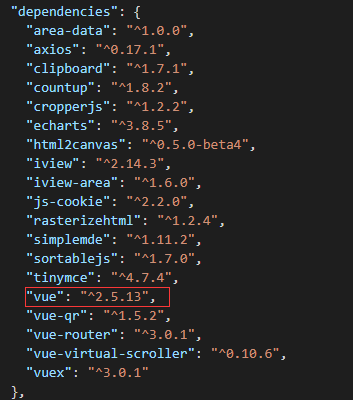
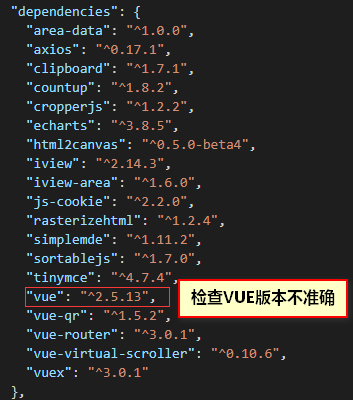
更正自己文章中出现的错误

Changed region(s): [[0.4986, 0.69, 0.9972, 0.81]]

diff --git a/source/_posts/你真的会检查自己系统安装的VUE版本吗？.md b/source/_posts/你真的会检查自己系统安装的VUE版本吗？.md
@@ -32,10 +32,12 @@ vue --version
 {% asset_img VUE-Ecosystem.png %}
 {% endblockquote %}
 
-## 检查自己项目的VUE版本
+## 检查自己项目的VUE版本()
 {% blockquote %}
-请看package.json
-{% asset_img package.json.png %}
+~~请看自己项目根目录中package.json~~
+~~{% asset_img package.json.png %}~~
+感谢大神对我错误的指点，对此问题更正一下，如果要检查VUE版本，需要到node_modules中vue文件夹下的package.json中查找，或者是任意一个文件的头部注释
+{% asset_img vue-package.png %}
 {% endblockquote %}
 
 ## 总结
